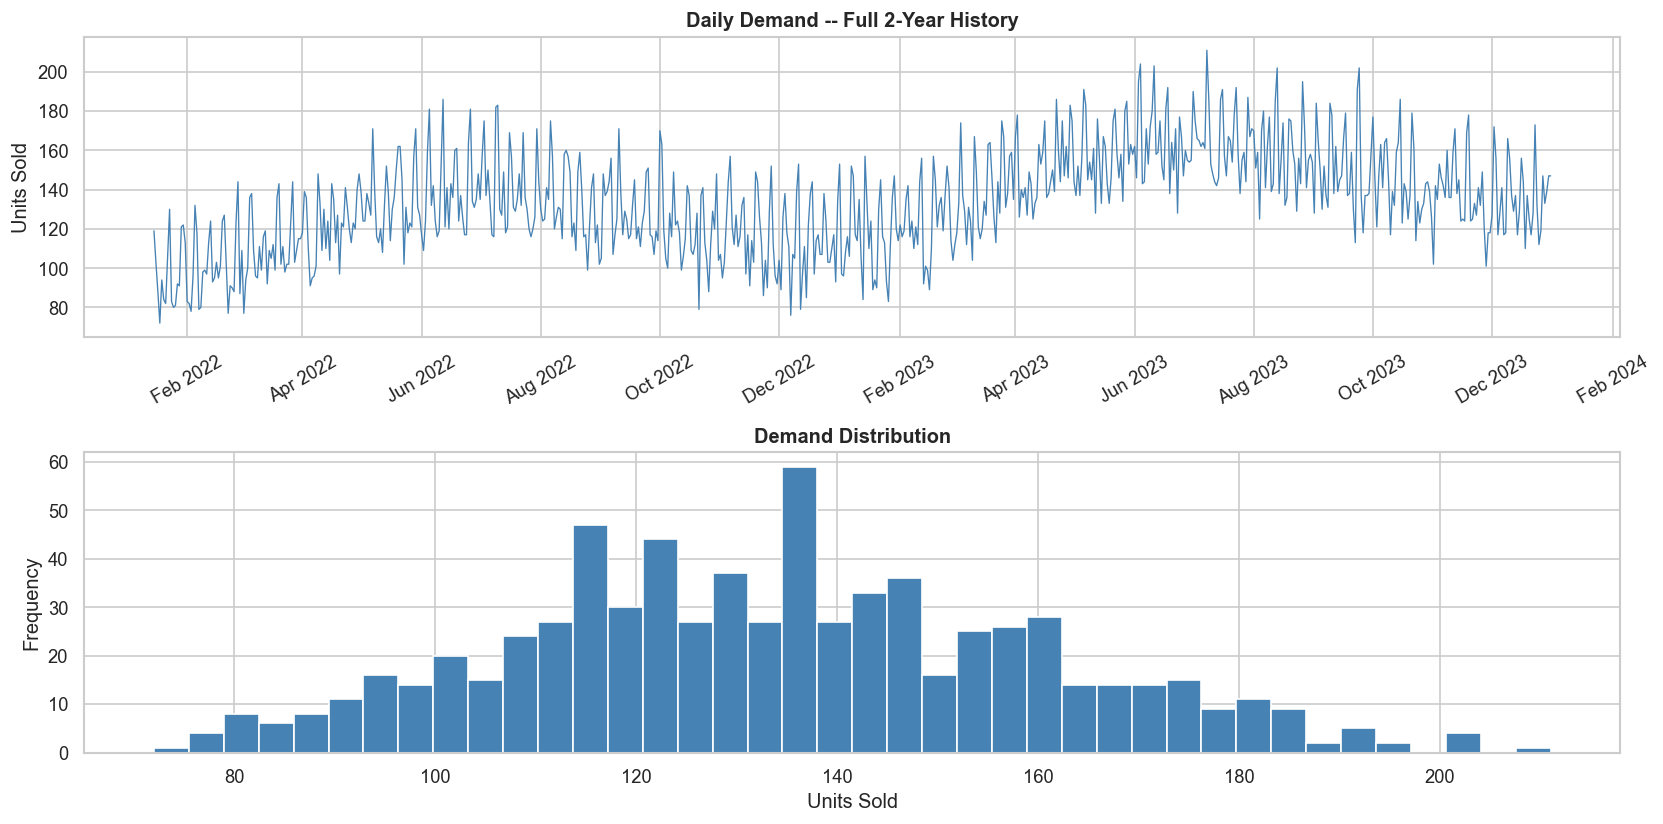
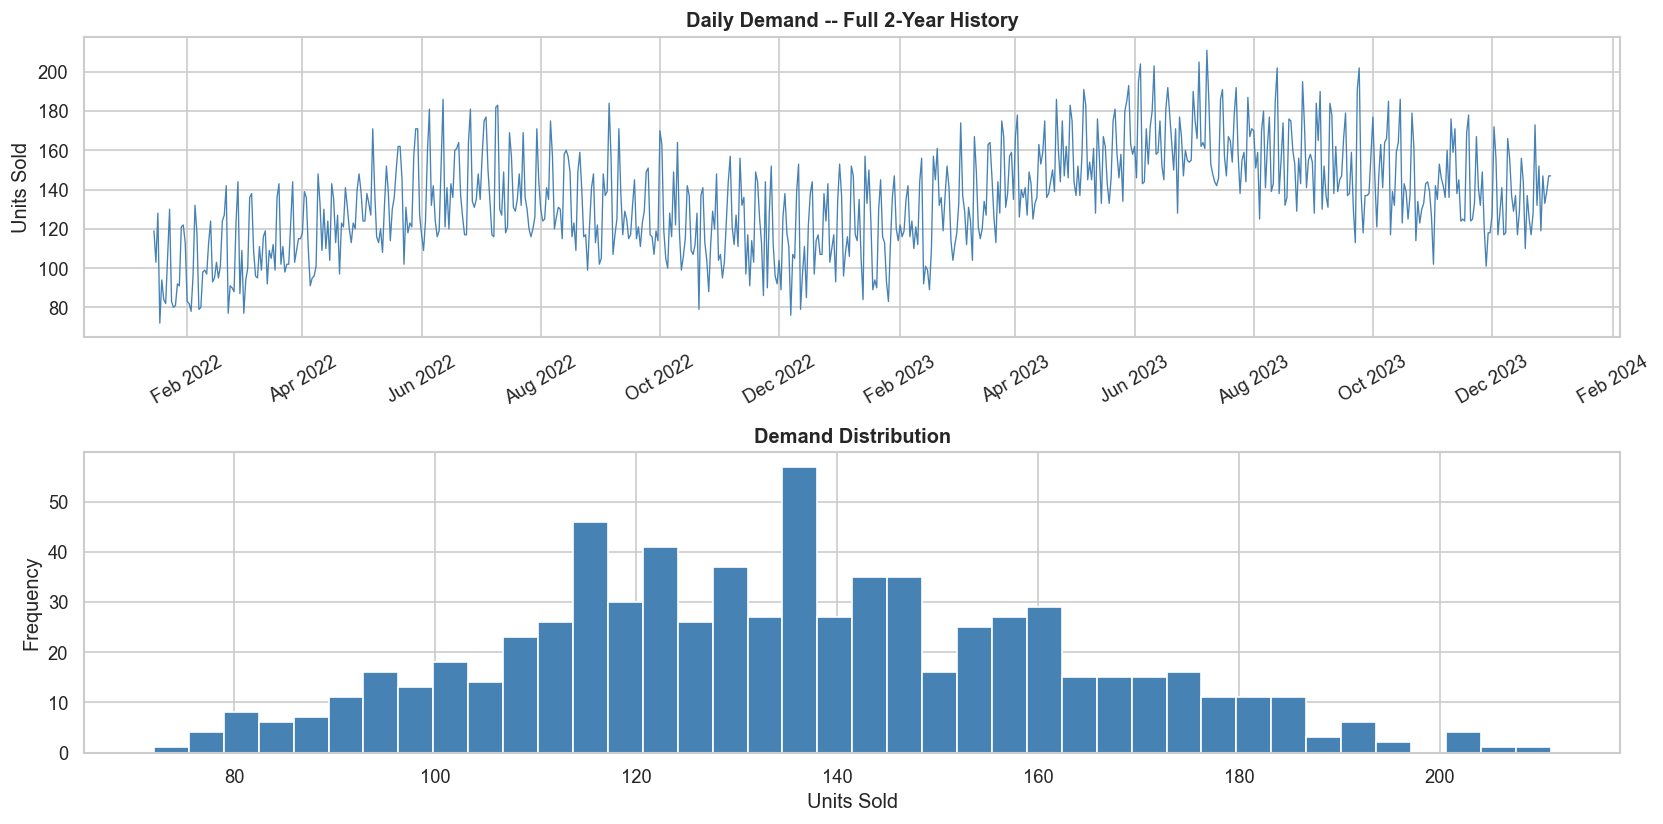
feat: add holiday feature (is_holiday)
- generate_data.py: holiday demand spikes (+40 units) using USFederalHolidayCalendar
- features.py: added add_holiday_features() and is_holiday to feature list
- train.py: pipeline now calls add_holiday_features()
- README: updated features table + ticked off holiday checklist item
- Now using 9 features (was 8)

diff --git a/src/generate_data.py b/src/generate_data.py
@@ -2,16 +2,17 @@
 generate_data.py
 ================
 Author : Ujjwal Deep
-Project: Simple Demand Forecast (ML Basics - Day 1)
+Project: Simple Demand Forecast (ML Basics)
 
 What this file does:
 --------------------
 Since I don't have a real dataset, I'm generating fake (synthetic) data
 that looks realistic. The demand has:
-  1. An upward TREND  → the product gets more popular over time
-  2. WEEKEND SPIKES   → people shop more on Sat/Sun
-  3. SUMMER PEAK      → demand is higher in summer (Jun-Aug)
-  4. RANDOM NOISE     → real data is never perfectly smooth
+  1. An upward TREND    → the product gets more popular over time
+  2. WEEKEND SPIKES     → people shop more on Sat/Sun
+  3. SUMMER PEAK        → demand is higher in summer (Jun-Aug)
+  4. HOLIDAY SPIKES     → big spikes on public holidays (Christmas, Thanksgiving etc.)
+  5. RANDOM NOISE       → real data is never perfectly smooth
 
 Output: data/demand_data.csv  (730 rows = 2 years of daily data)
 """
@@ -19,6 +20,7 @@ Output: data/demand_data.csv  (730 rows = 2 years of daily data)
 import numpy as np
 import pandas as pd
 from pathlib import Path
+from pandas.tseries.holiday import USFederalHolidayCalendar
 
 
 def generate_demand(start_date="2022-01-01", periods=730, seed=42):
@@ -54,11 +56,19 @@ def generate_demand(start_date="2022-01-01", periods=730, seed=42):
     day_of_year = dates.dayofyear.to_numpy().astype(float)
     monthly = 20.0 * np.sin(2.0 * np.pi * (day_of_year - 80.0) / 365.0)
 
-    # --- Component 4: Random noise (mean=0, std=12) -------------------------
+    # --- Component 4: Holiday spikes (+40 units on public holidays) ---------
+    # We use the US Federal Holiday calendar from pandas.
+    # Holidays like Christmas, Thanksgiving, New Year etc. tend to spike demand.
+    cal      = USFederalHolidayCalendar()
+    holidays = cal.holidays(start=dates.min(), end=dates.max())
+    holiday_flag = np.isin(dates, holidays).astype(float)
+    holiday_boost = holiday_flag * 40.0
+
+    # --- Component 5: Random noise (mean=0, std=12) -------------------------
     noise = rng.normal(0.0, 12.0, periods)
 
     # Add all components together, clip at 0 (demand can't be negative)
-    demand = np.clip(trend + weekly + monthly + noise, 0, None)
+    demand = np.clip(trend + weekly + monthly + holiday_boost + noise, 0, None)
     demand = demand.round().astype(int)
 
     df = pd.DataFrame({"date": dates, "demand": demand})

diff --git a/src/features.py b/src/features.py
@@ -2,7 +2,7 @@
 features.py
 ===========
 Author : Ujjwal Deep
-Project: Simple Demand Forecast (ML Basics - Day 1)
+Project: Simple Demand Forecast (ML Basics)
 
 What this file does:
 --------------------
@@ -10,6 +10,7 @@ Raw data only has 'date' and 'demand'. A model can't learn from a date string!
 So we create NEW columns (features) that the model CAN learn from:
 
   Calendar features  → tell the model what time of year/week it is
+  Holiday feature    → flags public holidays (Christmas, Thanksgiving, etc.)
   Lag features       → tell the model what demand looked like in the past
   Rolling mean       → smoothed recent demand level
 
@@ -18,6 +19,11 @@ Why lag features?
 If demand was high last week (lag_7), it's likely high this week too.
 This is the key insight in time-series forecasting.
 
+Why holidays?
+-------------
+Holidays cause unusual spikes in demand that the model would otherwise
+treat as noise. Flagging them explicitly lets the model learn their pattern.
+
 Why rolling mean?
 -----------------
 Averages out the noise in recent demand, giving the model a cleaner signal.
@@ -25,6 +31,7 @@ Averages out the noise in recent demand, giving the model a cleaner signal.
 
 import pandas as pd
 import numpy as np
+from pandas.tseries.holiday import USFederalHolidayCalendar
 
 
 def add_calendar_features(df):
@@ -50,6 +57,25 @@ def add_calendar_features(df):
     df["week_of_year"] = df["date"].dt.isocalendar().week.astype(int)
     df["is_weekend"]   = (df["day_of_week"] >= 5).astype(int)   # 1 if Sat/Sun
 
+    return df
+
+
+def add_holiday_features(df):
+    """
+    Add a binary flag for US public holidays.
+
+    Uses pandas' built-in USFederalHolidayCalendar which includes:
+    New Year's Day, MLK Day, Presidents' Day, Memorial Day,
+    Independence Day, Labor Day, Columbus Day, Veterans Day,
+    Thanksgiving, Christmas Day.
+
+    New column added:
+      is_holiday - 1 if the date is a US federal holiday, else 0
+    """
+    df = df.copy()
+    cal      = USFederalHolidayCalendar()
+    holidays = cal.holidays(start=df["date"].min(), end=df["date"].max())
+    df["is_holiday"] = df["date"].isin(holidays).astype(int)
     return df
 
 
@@ -91,6 +117,7 @@ def get_feature_columns():
         "month",
         "week_of_year",
         "is_weekend",
+        "is_holiday",       # <-- new!
         "lag_7",
         "lag_14",
         "rolling_mean_7",

diff --git a/src/train.py b/src/train.py
@@ -69,12 +69,15 @@ def load_and_prepare(path):
     Load the CSV, then apply all feature engineering.
     Drop the first 14 rows that have NaN (from lag features).
     """
-    from features import add_calendar_features, add_lag_features
+    from features import add_calendar_features, add_holiday_features, add_lag_features
 
     df = pd.read_csv(path, parse_dates=["date"])
 
     # Add calendar features (trend, day_of_week, month, etc.)
     df = add_calendar_features(df)
+
+    # Add holiday flag (is_holiday = 1 on public holidays)
+    df = add_holiday_features(df)
 
     # Add lag features (lag_7, lag_14, rolling_mean_7)
     df = add_lag_features(df)

diff --git a/README.md b/README.md
@@ -82,6 +82,7 @@ demand_forecast/
 | `month` | Month number (seasonal pattern) |
 | `week_of_year` | Annual weekly cycle |
 | `is_weekend` | Binary flag: 1 if Sat or Sun |
+| `is_holiday` | Binary flag: 1 if US public holiday (Christmas, Thanksgiving etc.) |
 | `lag_7` | Demand from 7 days ago |
 | `lag_14` | Demand from 14 days ago |
 | `rolling_mean_7` | Average demand over the past 7 days |
@@ -133,7 +134,7 @@ jupyter notebook notebooks/demand_forecast.ipynb
 ## 🔮 What I Would Add Next
 
 - [ ] Try more models (Random Forest, XGBoost)
-- [ ] Add real holidays as features
+- [x] Add real holidays as features ✅
 - [ ] Forecast multiple products at once
 - [ ] Deploy as a simple web app (Flask/Streamlit)
 
